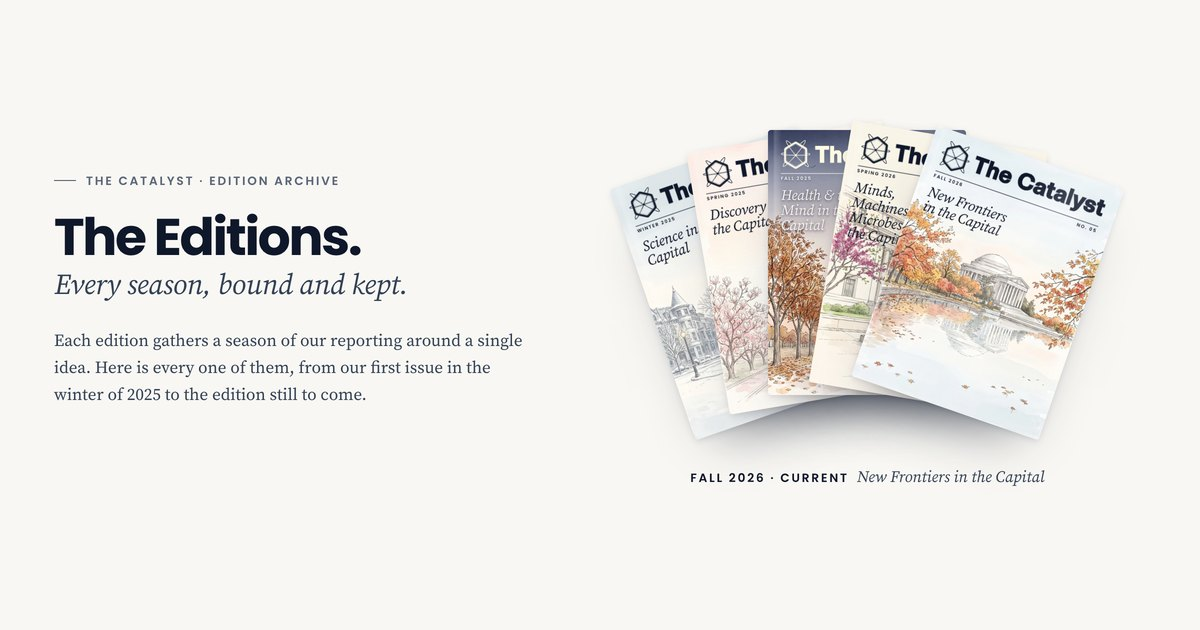
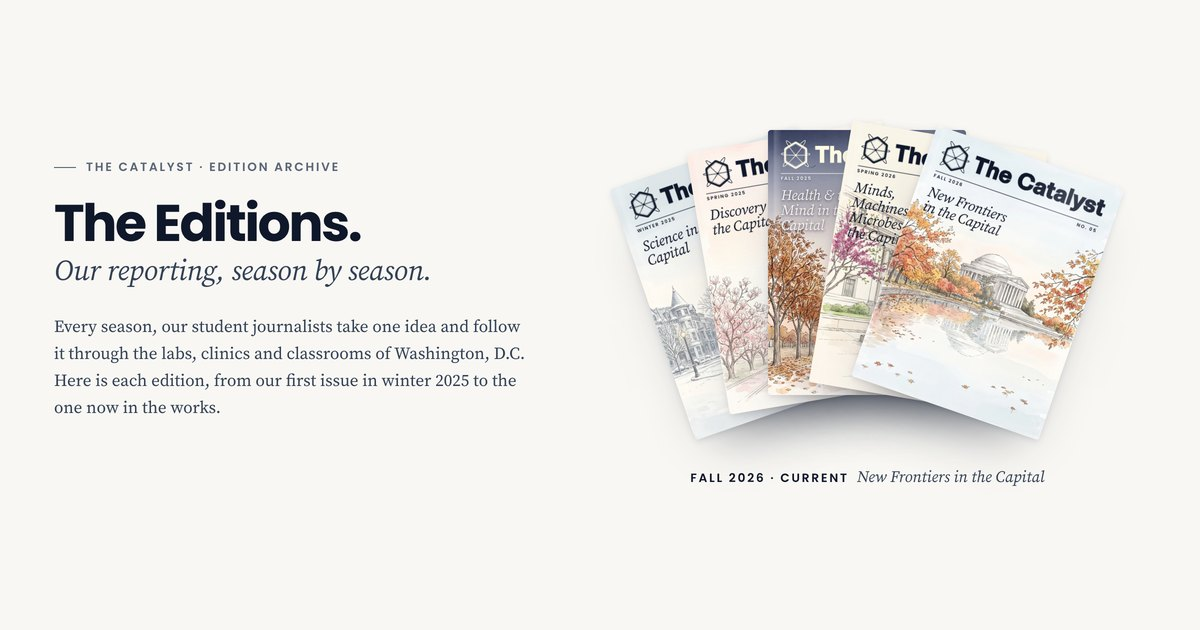
Edition overview: faster, glitch-free cover pull-out; new hero copy
- The pull-out takes about half a second (was one); a new cover can be
  picked as soon as the current one is in front.
- The cover you point at is read from where the covers are going, not
  from where they are mid-slide (each cover owns the strip of the fan
  where its edge shows, following its tilt; the one in front owns its
  width). Covers sliding under a still pointer no longer change the
  pick, and a click always opens the cover being pointed at.
- Hero: 'Our reporting, season by season.' and a tighter intro; the
  overview's link preview image is refreshed to match.

Changed region(s): [[0.0308, 0.2413, 0.37, 0.4825], [0.0308, 0.5127, 0.4317, 0.6635]]

diff --git a/edition-overview.html b/edition-overview.html
@@ -170,12 +170,12 @@
          either side ease aside, within the room there is (never over the text) */
       .is-ready .ea-fan-item { opacity: 1; transform: translateX(var(--dx, 0px)) rotate(calc((var(--i) - var(--mid, 3)) * var(--step))); }
       .ea-fan.settled .ea-fan-item {
-        transition: transform .95s var(--fan-ease), opacity .7s var(--ease-out); transition-delay: 0s;
+        transition: transform .55s var(--fan-ease), opacity .7s var(--ease-out); transition-delay: 0s;
         will-change: transform;
       }
       .ea-fan-item .ea-cover {
         box-shadow: 0 2px 6px rgba(15,23,42,.12), 0 30px 50px -26px rgba(15,23,42,.5);
-        transition: transform .9s var(--fan-ease), box-shadow .9s var(--fan-ease);
+        transition: transform .5s var(--fan-ease), box-shadow .5s var(--fan-ease);
       }
       .ea-fan li.is-front .ea-cover, .ea-fan.plain-hover .ea-fan-item:hover .ea-cover, .ea-fan-item:focus-visible .ea-cover {
         transform: translateY(-30px) scale(1.015);
@@ -185,7 +185,7 @@
       .ea-fan-caption {
         min-height: 22px; margin: 46px 0 0; text-align: center;
         font: 600 12px/1.5 var(--sans); letter-spacing: .16em; text-transform: uppercase; color: var(--ink);
-        transition: opacity .3s ease, transform .3s ease;
+        transition: opacity .2s ease, transform .2s ease;
       }
       .ea-fan-caption.is-out { opacity: 0; transform: translateY(4px); }
       .ea-fan-caption em { margin-left: 8px; font: italic 400 16px/1.5 var(--serif); letter-spacing: 0; text-transform: none; color: var(--ink-2); }
@@ -396,8 +396,8 @@
             <div class="ea-wrap ea-hero-grid">
                 <div class="ea-hero-copy">
                     <p class="ea-kicker ea-rise">The Catalyst &middot; Edition archive</p>
-                    <h1 id="ea-title" class="ea-rise" style="--d:.08s"><span class="nw">The Editions.</span> <em>Every season, bound and kept.</em></h1>
-                    <p class="ea-lede ea-rise" style="--d:.16s">Each edition gathers a season of our reporting around a single idea. Here is every one of them, from our first issue in the winter of 2025 to the edition still to come.</p>
+                    <h1 id="ea-title" class="ea-rise" style="--d:.08s"><span class="nw">The Editions.</span> <em>Our reporting, season by season.</em></h1>
+                    <p class="ea-lede ea-rise" style="--d:.16s">Every season, our student journalists take one idea and follow it through the labs, clinics and classrooms of Washington, D.C. Here is each edition, from our first issue in winter 2025 to the one now in the works.</p>
                     <div class="ea-facts ea-rise" style="--d:.24s">
                         <div><b>5</b><span>Published</span></div>
                         <div><b>52</b><span>Stories</span></div>
@@ -826,7 +826,7 @@
           if (html === capNow) return;
           capNow = html; clearTimeout(capTimer);
           cap.classList.add('is-out');
-          capTimer = setTimeout(function () { cap.innerHTML = html; cap.classList.remove('is-out'); }, 200);
+          capTimer = setTimeout(function () { cap.innerHTML = html; cap.classList.remove('is-out'); }, 130);
         }
         function caption(el) { var v = el.getAttribute('data-caption').split('|'); setCaption(v[0] + '<em>' + v[1] + '</em>'); }
 
@@ -862,6 +862,7 @@
             // the covers may use the gutter up to 28px short of where the text actually ends
             boxLeft: Math.min(br.left, textEdge() + 28),
             left: function (i) { return fr.left + fr.width / 2 + 1.4 * ch * Math.sin((i - mid) * step) - cw / 2; },
+            angle: function (i) { return (i - mid) * step; },
             overhang: function (i) {                                          // how far the tilted corners reach past the straight edges
               var a = Math.abs((i - mid) * step);
               return (cw / 2) * (Math.cos(a) - 1) + 0.5 * ch * Math.sin(a) + 2;
@@ -906,7 +907,7 @@
             fanItems.forEach(function (it, i) {
               it.style.setProperty('--dx', (L[i] - rest[i]).toFixed(1) + 'px');
               // the covers lying on the one being pulled out make way a little sooner
-              it.style.transitionDuration = i > h ? '.62s, .7s' : '';
+              it.style.transitionDuration = i > h ? '.36s, .7s' : '';
               it.style.transitionTimingFunction = i > h ? 'cubic-bezier(.3, 0, .18, 1), ease' : '';
             });
             return { L: L, g: g };
@@ -917,7 +918,7 @@
              lying on it, changes place in the stack there, then slides back into
              place in front while the others close up. Putting it back is the same,
              reversed. */
-          var D = 1000, SWAP = 0.46;
+          var D = 540, SWAP = 0.46;
           function pullDistance(i, L, g) {                    // how far cover i must slide to clear the one on it
             if (i >= n - 1) return 0;
             var need = (L[i] + g.cw + g.overhang(i)) - (L[i + 1] - g.overhang(i + 1)) + 10;
@@ -941,41 +942,76 @@
             li._swap = setTimeout(function () { li.classList.toggle('is-front', raise); }, D * SWAP);
             return D;
           }
-          var front = null, tOpen = 0, tClose = 0, tCheck = 0, busyUntil = 0, px = 0, py = 0;
-          fanEl.addEventListener('pointermove', function (e) { px = e.clientX; py = e.clientY; });
-          function underPointer() {
-            var el = document.elementFromPoint(px, py);
-            return el && el.closest ? el.closest('.ea-fan-item') : null;
+          /* Which cover you are pointing at is read from where the covers are going,
+             not from where they are mid-slide: each cover owns the strip of the fan
+             where its edge shows (the one in front owns its whole width). Covers
+             sliding under a still pointer can never change the pick. */
+          var front = null, tOpen = 0, tClose = 0, pending = -1, target = null;
+          // the covers' target layout: straight left edges at mid-height, the one in front, and each cover's tilt
+          function setZones(L, g, h) {
+            var fr = fanEl.getBoundingClientRect(), li = fanItems[0].parentElement;
+            target = { L: L, h: h, cw: g.cw, left: fr.left, top: fr.top,
+                       midY: li.getBoundingClientRect().top + li.offsetHeight / 2 - fr.top,
+                       tan: fanItems.map(function (_, i) { return Math.tan(g.angle(i)); }) };
+          }
+          function restZones() {
+            var g = fanGeometry();
+            setZones(fanItems.map(function (_, i) { return g.left(i); }), g, -1);
+          }
+          function pick(x, y) {
+            if (!target) restZones();
+            var fr = fanEl.getBoundingClientRect(), T = target, h = T.h;
+            x -= fr.left - T.left; y -= fr.top - T.top;                        // the page may have scrolled
+            var dy = T.midY - (y - T.top);                                     // how far above the covers' middle
+            var e = T.L.map(function (l, i) { return l + dy * T.tan[i]; });    // each cover's left edge at this height
+            var Rh = h >= 0 ? e[h] + T.cw : 0, best = 0, bd = Infinity, i, a, b, d;
+            for (i = 0; i < n; i++) {
+              if (i === h) { a = e[h]; b = Rh; }
+              else if (h >= 0 && i < h) { a = e[i]; b = Math.min(e[i + 1], e[h]); }
+              else { a = h >= 0 ? Math.max(e[i], Rh) : e[i]; b = i < n - 1 ? e[i + 1] : e[i] + T.cw; }
+              if (b <= a) continue;
+              d = x < a ? a - x : x > b ? x - b : 0;
+              if (d < bd) { bd = d; best = i; }
+            }
+            return best;
           }
           var show = function (a) {
             if (front === a) return;
             var prev = front; front = a;
-            var lay = open(a), t = 0;
-            if (prev) t = pull(prev, pullDistance(fanItems.indexOf(prev), lay.L, lay.g), false);
-            t = Math.max(t, pull(a, pullDistance(fanItems.indexOf(a), lay.L, lay.g), true));
-            busyUntil = performance.now() + t;
+            var lay = open(a), h = fanItems.indexOf(a);
+            setZones(lay.L, lay.g, h);
+            if (prev) pull(prev, pullDistance(fanItems.indexOf(prev), lay.L, lay.g), false);
+            pull(a, pullDistance(h, lay.L, lay.g), true);
             caption(a);
-            // covers moved under a still pointer: once they settle, follow whatever it now rests on
-            clearTimeout(tCheck);
-            if (t) tCheck = setTimeout(function () { var u = underPointer(); if (u && u !== front && fanEl.matches(':hover')) show(u); }, t + 40);
           };
           var close = function () {
             var g = fanGeometry(), rest = fanItems.map(function (_, i) { return g.left(i); });
             if (front) pull(front, pullDistance(fanItems.indexOf(front), rest, g), false);
-            front = null; busyUntil = 0;
+            front = null; pending = -1; clearTimeout(tOpen);
+            setZones(rest, g, -1);
             fanItems.forEach(function (it) { it.style.setProperty('--dx', '0px'); it.style.transitionDuration = ''; it.style.transitionTimingFunction = ''; });
             setCaption(capDefault);
           };
-          // a moment's intent before anything moves, and no new pick while a cover is on its way out
-          fanItems.forEach(function (a) {
-            a.addEventListener('pointerenter', function () {
-              clearTimeout(tClose); clearTimeout(tOpen);
-              var wait = Math.max(front ? 60 : 90, busyUntil - performance.now());
-              tOpen = setTimeout(function () { var u = underPointer() || a; show(u); }, wait);
-            });
-            a.addEventListener('focus', function () { clearTimeout(tClose); show(a); });
+          // a short moment of intent on a new cover, then it comes out
+          fanEl.addEventListener('pointermove', function (e) {
+            clearTimeout(tClose);
+            var k = pick(e.clientX, e.clientY);
+            if (front && fanItems[k] === front) { pending = -1; clearTimeout(tOpen); return; }
+            if (k === pending) return;
+            pending = k; clearTimeout(tOpen);
+            tOpen = setTimeout(function () { pending = -1; show(fanItems[k]); }, front ? 45 : 70);
           });
-          fanEl.addEventListener('pointerleave', function () { clearTimeout(tOpen); tClose = setTimeout(close, 160); });
+          fanEl.addEventListener('pointerleave', function () { clearTimeout(tOpen); pending = -1; tClose = setTimeout(close, 120); });
+          // a click opens the cover you are pointing at, even if another is sliding under the pointer
+          fanEl.addEventListener('click', function (e) {
+            var a = e.target.closest && e.target.closest('.ea-fan-item');
+            if (!a || e.detail === 0) return;                 // keyboard clicks keep their own target
+            var t = fanItems[pick(e.clientX, e.clientY)];
+            if (t !== a) { e.preventDefault(); e.stopPropagation(); t.click(); }
+          }, true);
+          window.addEventListener('resize', function () { target = null; });
+          fanEl._pick = pick;                                  // (for checking the fan against what shows)
+          fanItems.forEach(function (a) { a.addEventListener('focus', function () { clearTimeout(tClose); show(a); }); });
           fanEl.addEventListener('focusout', function (e) { if (!fanEl.contains(e.relatedTarget)) close(); });
         } else {
           // reduced motion or touch: covers simply come forward, the caption follows
